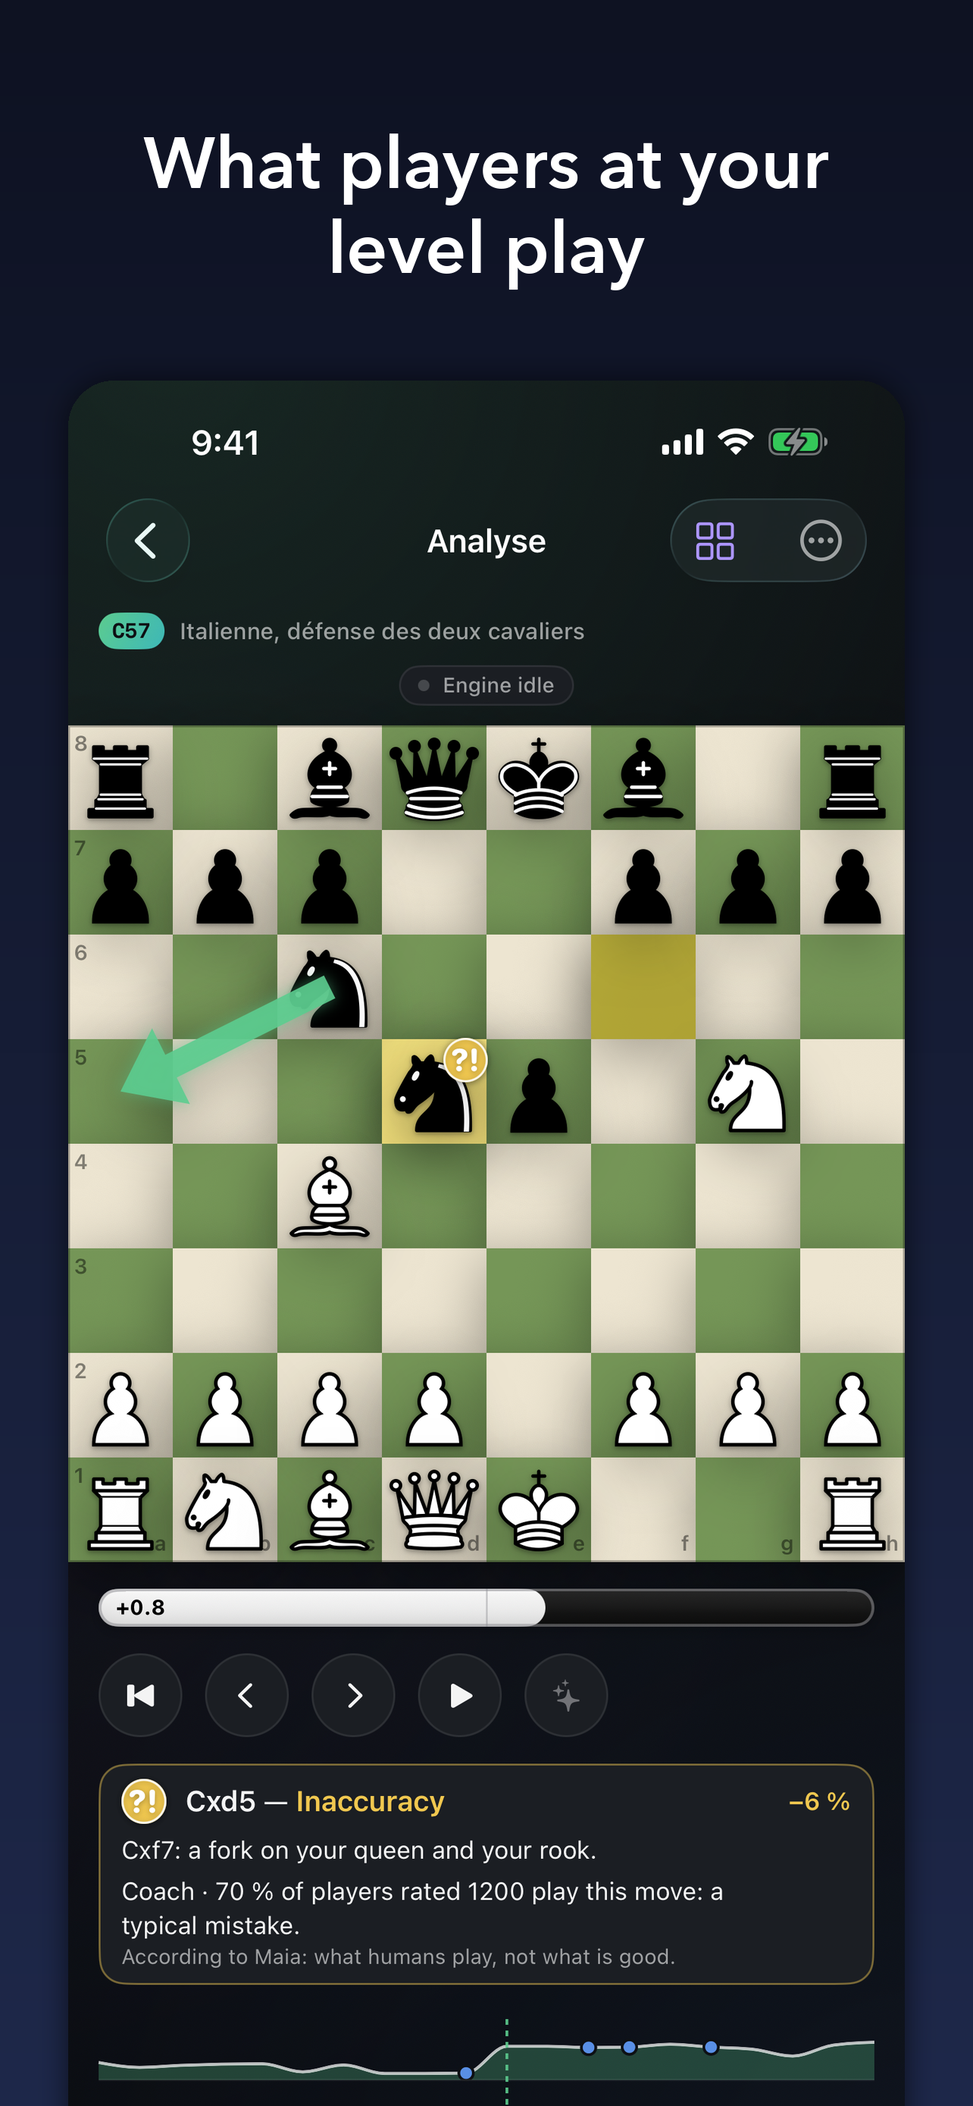
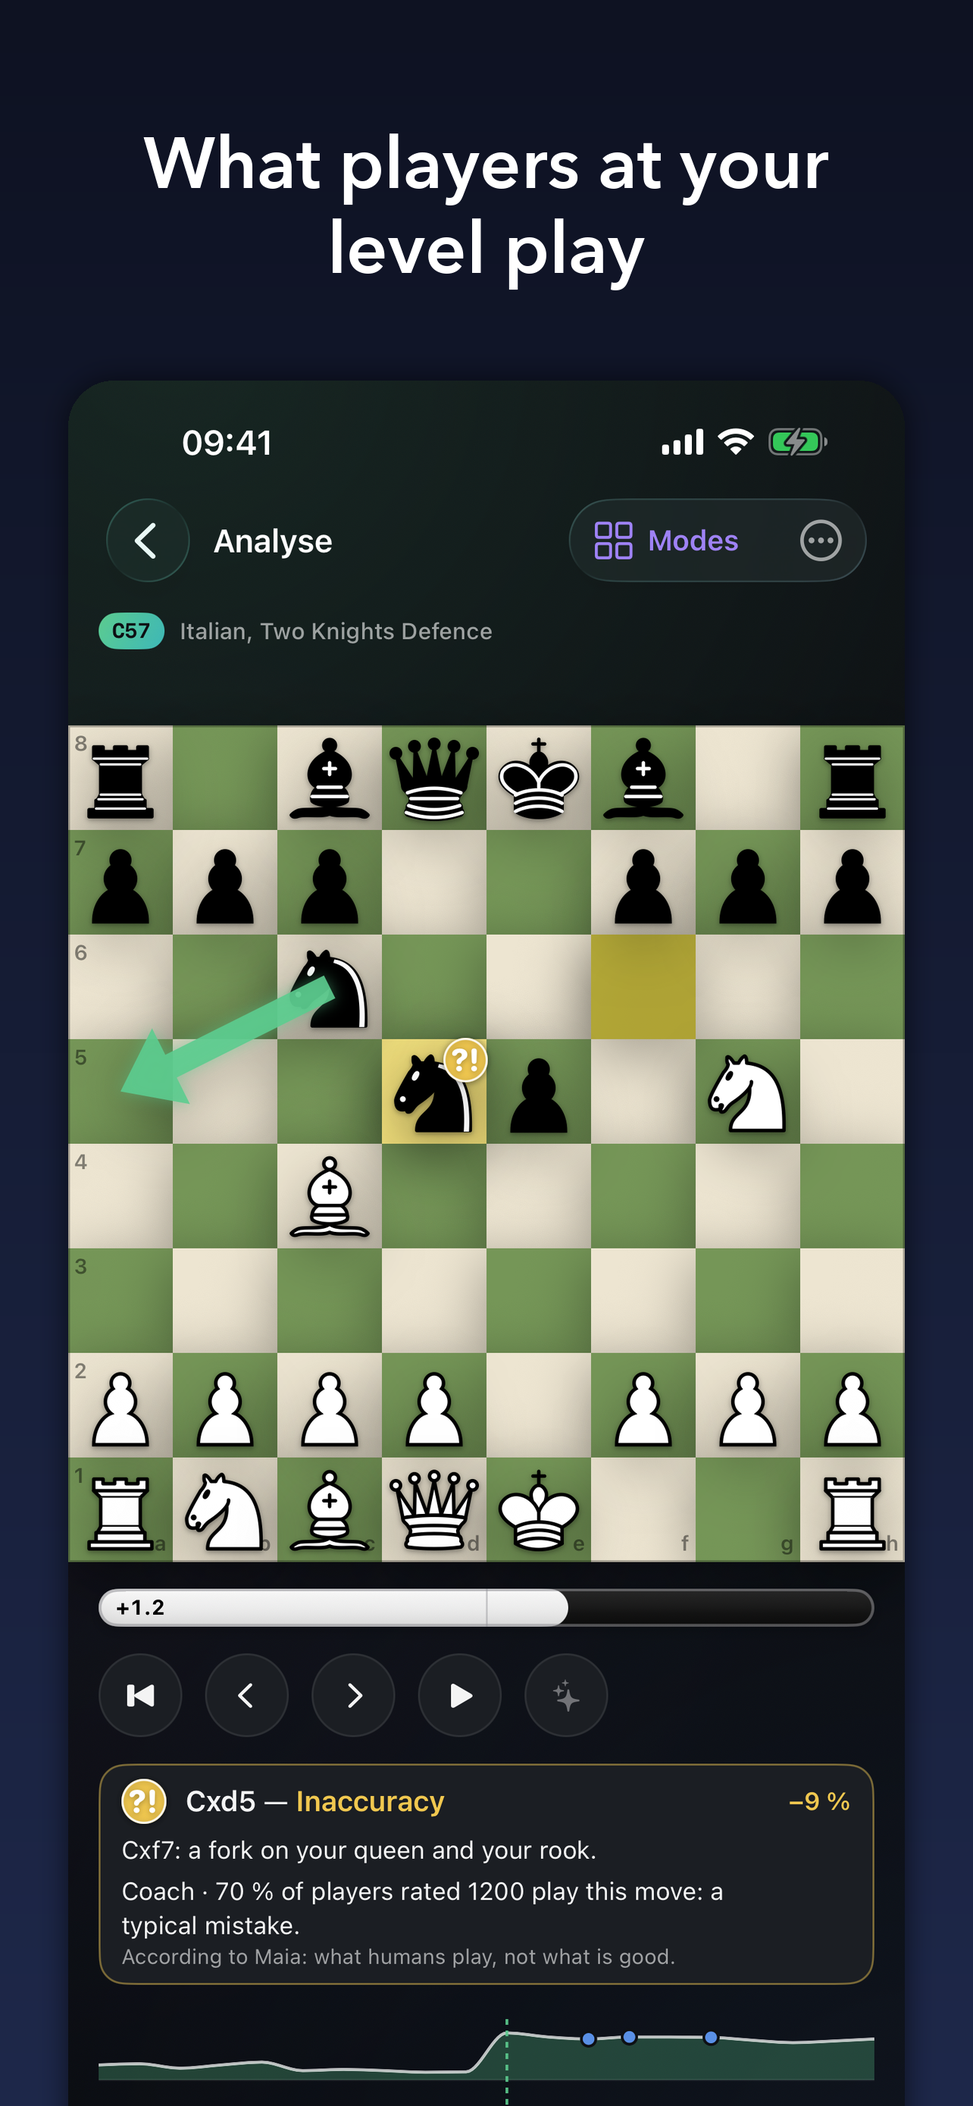
Fiche 2.2 : version 2.2 (build 22), nouveautés FR/EN, notes de révision, captures rafraîchies (iOS ; Android inchangé)
- Version marketing 2.1 -> 2.2, build 22 (jamais téléversé), app et extension de partage.
- METADATA.md : nouveautés 2.2 en français et en anglais, notes pour le réviseur (extension
  de partage, Stockfish 19, export PGN), historique ; RELEASE_NOTES-2.2.md.
- Captures : « coach » (la capsule « Moteur en attente » n'existe plus) et les écrans qui
  portent le bouton « Modes » (ouvertures, lecteur, puzzle, finales), iPhone et iPad, FR/EN ;
  Duo : écran extérieur refait (coach, ouvertures, finales) ; l'écran intérieur n'a pas pu être
  rouvert (posture Device Hub), sa capture « coach » périmée sort de la fiche.
- asc.py : une capture refaite sous le même nom est retéléversée (comparaison des sommes MD5).

Le côté Android n'est pas concerné : rien n'est publié sur Play, versionName reste à trancher.

diff --git a/tools/asc/asc.py b/tools/asc/asc.py
@@ -380,8 +380,12 @@ def cmd_screenshots(c, args):
             if display_type in sets:
                 set_id = sets[display_type]["id"]
                 current = c.get_all(f"/appScreenshotSets/{set_id}/appScreenshots")
-                # Déjà là, dans le même ordre et traité (ou en cours de traitement) : on n'y touche pas.
-                if [x["attributes"]["fileName"] for x in current] == [f.name for f in files] and all(
+                # Déjà là, dans le même ordre, avec le MÊME contenu (somme MD5) et traité (ou en cours de
+                # traitement) : on n'y touche pas. Le nom seul ne suffit pas : une capture refaite garde le sien,
+                # et la version suivante hérite des anciennes images de la précédente.
+                if [x["attributes"]["fileName"] for x in current] == [f.name for f in files] and [
+                        x["attributes"].get("sourceFileChecksum") for x in current
+                ] == [hashlib.md5(f.read_bytes()).hexdigest() for f in files] and all(
                         x["attributes"]["assetDeliveryState"]["state"] in ("COMPLETE", "UPLOAD_COMPLETE") for x in current):
                     print(f"  {locale} {display_type}: {len(files)} captures déjà en place")
                     continue

diff --git a/AppStoreSubmission/METADATA.md b/AppStoreSubmission/METADATA.md
@@ -1,6 +1,6 @@
 # Métadonnées App Store Connect — ChessLab
 
-**Version courante : 2.1, build 21** (fixés dans `project.pbxproj`). La 2.0 (build 19) est EN VENTE. Voir `RELEASE_NOTES-2.1.md` pour le détail des changements depuis la 2.0. **Préparée le 03/11/2026 : fiche, nouveautés et notes de révision posées dans App Store Connect (version 2.1, PREPARE_FOR_SUBMISSION) ; le build n'est PAS archivé ni téléversé, la version n'est PAS soumise (attendre l'accord de Thierry).**
+**Version courante : 2.2, build 22** (fixés dans `project.pbxproj`). La 2.1 (build 21) est EN VENTE depuis le 05/11/2026 ; le build 22 n'a jamais été téléversé (App Store Connect ne l'a pas reçu : vérifié par `asc.py build`). Voir `RELEASE_NOTES-2.2.md` pour le détail des changements depuis la 2.1. **Préparée le 09/11/2026 : fiche, nouveautés et notes de révision à poser dans App Store Connect (version 2.2) ; le build n'est PAS archivé ni téléversé, la version n'est PAS soumise (attendre l'accord de Thierry).**
 
 Tout ce qui suit est à copier-coller directement dans les champs correspondants d'App Store Connect. Les limites de caractères d'Apple sont respectées (vérifiées).
 
@@ -10,64 +10,58 @@ Tout ce qui suit est à copier-coller directement dans les champs correspondants
 
 ---
 
-## Nouveautés de cette version — 2.1 (4000 car. max)
+## Nouveautés de cette version — 2.2 (4000 car. max)
 
 C'est le champ « What's New in This Version ». Rédigé pour l'utilisateur final : ce qu'il va sentir, pas ce qui a été refactorisé.
 
-> Version 2.1, build 20. Contenu : collections de puzzles importées d'un fichier PGN (demande d'un utilisateur, format validé sur son fichier réel), écran Puzzles repensé, réussite partielle, 130 935 puzzles, « S'entraîner » sur la variante affichée, découvrabilité. Détail dans `RELEASE_NOTES-2.1.md`.
+> Version 2.2, build 22. Contenu : scanner fiabilisé (photos d'écran, revue des cases douteuses, partage depuis Photos), export PGN et copie iCloud des collections de puzzles, réglage du thème du puzzle, Laboratoire Chess960, Stockfish 19, jauge d'avancement de l'analyse. Détail dans `RELEASE_NOTES-2.2.md`.
 
 ### Français
 
 ```
-CHESSLAB 2.1
+CHESSLAB 2.2
 
-VOS PROPRES PUZZLES
-Importez vos fichiers PGN : chaque fichier devient une collection, rangée à part de la bibliothèque, et chaque partie du fichier un puzzle. Le premier coup est joué d'avance et surligné — à vous de voir ce qui a changé —, puis de trouver la suite. Travaillez une collection en série, refaites ses ratés, ou lancez un programme Woodpecker sur toute la collection.
+UN SCANNER PLUS FIABLE
+Les photos d'écran (flou, moiré, reflets) sont bien mieux lues, et les points de coups légaux ou les pointes de flèches ne sont plus pris pour des pions. Les cases douteuses se vérifient une à une, avec la vignette de l'image à côté, et une deuxième lecture possible se choisit d'un toucher. Le camp qui a le trait est deviné quand un roi est en échec.
 
-UN ÉCRAN PUZZLES PLUS CLAIR
-Quatre séries démarrent au toucher : À mon niveau, Ratés, À revoir, Mes parties. « Série sur mesure » règle le niveau, la phase, le type et la provenance, et le thème à travailler vous est proposé en tête d'écran.
+PARTAGER VERS CHESSLAB
+Depuis Photos ou n'importe quelle app : Partager, puis ChessLab. L'image arrive directement dans le scanner.
 
-RÉUSSITE PARTIELLE
-Un puzzle dont vous trouvez le début sans la fin n'est plus compté comme raté : il rejoint « À revoir » et revient bientôt.
+VOS COLLECTIONS DE PUZZLES
+Une collection s'exporte en fichier PGN depuis son menu, et se réimporte à l'identique. Avec la synchronisation iCloud activée, vos collections importées passent d'un appareil à l'autre. Un nouveau réglage, « Afficher le thème du puzzle », permet de chercher sans indice. Les fourchettes annoncées sont plus justes, et les fichiers où une prise est précisée (Tfxd7+) sont lus sur la bonne pièce.
 
-SÉANCE DU JOUR
-Un cycle Woodpecker en cours s'affiche désormais parmi les tâches du jour, avec le nombre de puzzles qu'il reste à faire : un toucher et vous reprenez là où vous en étiez.
+LABORATOIRE CHESS960
+Faites jouer des séries de parties de Chess960 : un numéro de position de 0 à 959, ou une position tirée pour chaque paire de parties. Les parties s'exportent et s'analysent.
 
-PLUS DE 24 000 PUZZLES
-La bibliothèque passe à 130 935 problèmes, surtout aux niveaux extrêmes et pour les solutions de quatre coups ou plus. Une barre de progression suit son préchargement au premier lancement.
+STOCKFISH 19
+Le moteur passe à Stockfish 19, plus rapide. Les analyses déjà enregistrées sont refaites à leur prochaine ouverture avec le nouveau moteur.
 
-OUVERTURES ET FINALES
-« S'entraîner » travaille la variante que vous êtes en train de lire, et non plus seulement la ligne principale. Les noms d'ouvertures s'affichent dans la langue de l'app.
-
-MIEUX S'Y RETROUVER
-Un bouton « Modes » pour changer de mode, les sources d'Analyse dépliées, des « Questions fréquentes » dans l'Aide, la version en bas des Réglages. Et dans une partie chronométrée relue après coup, « Analyser ici » ouvre l'analyse sur la position affichée.
+ANALYSE
+Une jauge d'avancement, bien visible au-dessus du plateau, montre où en est le calcul. Une partie rechargée garde ses promotions.
 ```
 
 ### English
 
 ```
-CHESSLAB 2.1
+CHESSLAB 2.2
 
-YOUR OWN PUZZLES
-Import your PGN files: each file becomes a collection, kept apart from the library, and each game in it a puzzle. The first move is played for you and highlighted — spot what changed — and then you find the rest. Work through a collection as a series, redo its misses, or start a Woodpecker programme on the whole collection.
+A MORE RELIABLE SCANNER
+Screen photos (blur, moiré, glare) are read far better, and the dots showing legal moves or arrow heads are no longer mistaken for pawns. Doubtful squares are checked one at a time, with a thumbnail of the picture beside them, and a second possible reading can be chosen with a tap. The side to move is guessed when a king is in check.
 
-A CLEARER PUZZLES SCREEN
-Four series start with a tap: At my level, Missed, Review, My games. “Custom series” sets the level, phase, type and source, and the theme to work on is suggested at the top of the screen.
+SHARE TO CHESSLAB
+From Photos or any app: Share, then ChessLab. The picture goes straight into the scanner.
 
-PARTIAL SUCCESS
-A puzzle where you find the start but not the end no longer counts as missed: it joins “Review” and comes back soon.
+YOUR PUZZLE COLLECTIONS
+A collection can be exported as a PGN file from its menu, and imported back as it was. With iCloud sync turned on, your imported collections travel between your devices. A new setting, “Show the puzzle theme”, lets you search without a hint. The forks it reports are more accurate, and files where a capture is specified (Rfxd7+) are read on the right piece.
 
-DAILY SESSION
-A Woodpecker cycle under way now appears among the day's tasks, with the number of puzzles still to do: one tap and you pick up where you left off.
+CHESS960 LABORATORY
+Run series of Chess960 games: a position number from 0 to 959, or a position drawn for each pair of games. The games can be exported and analysed.
 
-OVER 24,000 MORE PUZZLES
-The library grows to 130,935 problems, especially at the extreme levels and for solutions of four moves or more. A progress bar follows its loading on first launch.
+STOCKFISH 19
+The engine moves to Stockfish 19, which is faster. Analyses already saved are redone with the new engine the next time you open them.
 
-OPENINGS AND ENDGAMES
-“Practice” works on the variation you are reading, not only the main line. Opening names now appear in the app's language.
-
-EASIER TO FIND YOUR WAY
-A “Modes” button to switch mode, Analyse sources open by default, “Frequently asked questions” in Help, the version at the bottom of Settings. And in a timed game reviewed afterwards, “Analyse here” opens the analysis on the position shown.
+ANALYSIS
+A progress gauge, clearly visible above the board, shows how far the calculation has got. A reloaded game keeps its promotions.
 ```
 
 ---
@@ -229,6 +223,8 @@ Réponses déduites du code (vérifié, pas deviné) :
 
 ### Version et build
 
+**2.2, build 22** — `MARKETING_VERSION = 2.2`, `CURRENT_PROJECT_VERSION = 22` (aux quatre configurations, app et extension de partage ; la 2.1, build 21, est en vente et le 22 n'a jamais quitté le dépôt : à revérifier par `asc.py build` avant l'archive, et à monter si Xcode en a envoyé un à l'insu du dépôt). Nouveautés détaillées dans `RELEASE_NOTES-2.2.md`.
+
 **2.1, build 21** — `MARKETING_VERSION = 2.1`, `CURRENT_PROJECT_VERSION = 21` (la 2.0, build 19, est en vente ; le build 20, téléversé le 04/11 sans la tâche Woodpecker de la séance, est écarté). Nouveautés détaillées dans `RELEASE_NOTES-2.1.md`.
 
 **2.0, build 19** — `MARKETING_VERSION = 2.0`, `CURRENT_PROJECT_VERSION = 19` (la 1.9.2, build 17, est la dernière soumise : le 18 est le premier numéro libre, à revérifier par `asc.py build` avant l'archive). Nouveautés détaillées dans `RELEASE_NOTES-2.0.md`.
@@ -267,6 +263,8 @@ git push origin main
 Au 19/08/2026, `main` est poussé au fil de l'eau (la nuit de travail du 18-19/08 a été poussée commit par commit). Vérifier malgré tout au moment de soumettre (`git log --oneline origin/main..HEAD | wc -l` doit rendre 0) : soumettre sans pousser publierait un binaire dont les sources annoncées ne correspondent pas.
 
 ### Historique des versions
+- **2.2** — build 22, préparée (non soumise) : scanner fiabilisé (photos d'écran, revue des cases douteuses, partage depuis Photos par l'extension ChessLabShare), export PGN et copie iCloud des collections de puzzles, réglage « Afficher le thème du puzzle », Laboratoire Chess960, Stockfish 19, jauge d'avancement de l'analyse (`RELEASE_NOTES-2.2.md`).
+- **2.1** — build 21, en vente depuis le 05/11/2026 : collections de puzzles importées, écran Puzzles repensé, réussite partielle, 130 935 puzzles (`RELEASE_NOTES-2.1.md`).
 - **2.0** — build 18 : séance du jour, analyse → puzzles avec récapitulatif, Coach (Maia-3), cote de puzzle, ouvertures illustrées, reprise de partie, limite de temps en option ; correctifs (reprise après capture d'une tour, coup de mat noté) (`RELEASE_NOTES-2.0.md`).
 - **1.9.2** — build 17, soumise : correctif de la prise au tap-tap sous iOS 18.
 - **1.9.1** — build 16 : la pièce du coin haut gauche de l'échiquier (h1 aux Noirs, a8 aux Blancs) et un coin du recadrage du scanner ne répondaient plus au toucher en iOS 18 (`RELEASE_NOTES-1.9.1.md`).
@@ -288,10 +286,7 @@ Au 19/08/2026, `main` est poussé au fil de l'eau (la nuit de travail du 18-19/0
 English, for the Apple reviewer. Opens with the nature of the update (2.0 : major content update), puis la proposition de valeur (sept modes, entièrement gratuits), la permission caméra, le seul appel réseau, la situation de licence (moteur GPLv3, sources publiques), et qu'aucun compte de test n'est nécessaire.
 
 ```
-WHAT'S IN THIS UPDATE (2.1): a feature update. New: the user can import their own chess puzzles from PGN files (Puzzles → My collections → Import puzzles). The files are chosen with the standard system document picker, or the text can be pasted; they are read on the device and never uploaded. Each file becomes a collection kept apart from the bundled library. To try it without a file: tap "Import puzzles", paste the two lines below in the text area, give any name and tap "Import the text" — each game is one puzzle, the first move being played for you:
-[FEN "6k1/p4ppp/8/8/8/8/5PPP/4R1K1 b - - 0 1"]
-1...a6 2.Re8#
-Also new: a redesigned Puzzles screen (four ready-made series and a custom-series sheet), partial credit for a puzzle solved only in part, 24,841 more bundled puzzles (130,935 in all, from the Lichess database, CC0), "Practice" in the opening and endgame courses now follows the variation being read, a "Modes" button on the mode screens, and a frequently-asked-questions section in Help. A standard system rating request (StoreKit) may appear at most once per version, after the user has played and trained for a few days. No change to permissions, privacy or licensing; still no network call, no account, no data collected.
+WHAT'S IN THIS UPDATE (2.2): a feature update. New: (1) a Share extension — in Photos (or any app), Share → ChessLab sends a picture of a chess diagram to the Scanner; the extension only copies the picture into an App Group container shared with the app (group.com.chesslab.ChessLab) and asks the user to open ChessLab; it has no network access and nothing leaves the device. To try it: in Photos open any screenshot of a chess position, tap Share, choose ChessLab, then open ChessLab — the Scanner opens on that picture. (2) A more reliable Scanner (screen photos, review of doubtful squares one at a time). (3) A puzzle collection can be exported as a PGN file from its menu (standard share sheet) and re-imported as it was; with the user's optional iCloud sync on, imported collections are also kept in their own private iCloud database. (4) A "Show the puzzle theme" setting. (5) Chess960 series in the Laboratory. (6) The engine is updated from Stockfish 17.1 to Stockfish 19 (same licence, GPLv3; sources published, see below). (7) A progress gauge during game analysis. No change to permissions, privacy or licensing: no new permission, still no network call of ours, no account, no data collected.
 
 ChessLab is a free chess app — no paywall, no ads, no in-app purchases, no account, no login, no server. Nothing to set up before reviewing. It bundles seven modes: play against the embedded Stockfish engine (Elo ~900 to ~3190) or against one of nine "characters" played by the Maia-3 neural network (University of Toronto, AGPLv3), which predicts human moves at a given level and runs entirely on-device via Core ML; two players on one device; full game analysis with Stockfish; 58 hand-written opening courses with spaced-repetition training; over 130,000 Lichess puzzles; an engine-vs-engine laboratory; and twelve variants (Chess960, King of the Hill, Three-Check, Horde, Racing Kings, Atomic, Antichess, Crazyhouse, Duck Chess, two Barricades, and a house variant, Stolen Move).
 

diff --git a/AppStoreSubmission/RELEASE_NOTES-2.2.md b/AppStoreSubmission/RELEASE_NOTES-2.2.md
@@ -1,0 +1,33 @@
+# Notes de version — ChessLab 2.2
+
+Notes DÉTAILLÉES pour le dépôt. Le texte à coller dans App Store Connect est la section « Nouveautés de cette version » de `METADATA.md` (limite 4 000 caractères).
+
+> Version `2.2`, build `22` (la 2.1, build 21, est en vente depuis le 05/11/2026 ; le 22 n'a jamais été téléversé). iOS et Android partent ensemble (Play : voir `android/PARITE.md`). Préparée le 09/11/2026 ; le build n'est pas archivé, la version n'est pas soumise.
+
+## Ce qui est nouveau
+
+- **Scanner** : détecteur réentraîné — les points de coups légaux et les pointes de flèches ne sont plus lus comme des pions (fausses pièces 5,25 % → 0,016 % sur jeux de pièces inconnus) ; photos d'écran (flou, moiré, reflets) : sur des dégradations SYNTHÉTIQUES, 28 % → 80,7 % de plateaux lus exactement (aucune vraie photo d'écran mesurée) ; revue des cases douteuses une à une avec la vignette de l'image d'origine ; deuxième hypothèse proposée d'un toucher ; trait deviné d'après un roi en échec ; gabarits préchargés à l'ouverture de l'écran. Trois sorties depuis l'éditeur et la confirmation (Jouer / Analyser / Départ du Laboratoire).
+- **« Partager › ChessLab »** (nouvelle cible `ChessLabShare`, identifiant `com.chesslab.ChessLab.Share`, groupe d'app `group.com.chesslab.ChessLab`) : l'image est déposée dans le conteneur de groupe et le scanner s'ouvre dessus à la réactivation de l'app. Une extension iOS ne peut pas lancer l'app : elle affiche « Ouvrez ChessLab » (écart de plateforme, consigné dans `android/PARITE.md`). Vérifié sur iPhone depuis Photos.
+- **Collections de puzzles** : export PGN depuis le menu de la collection (l'en-tête `[PuzzleSetup]` permet de relire le fichier à l'identique) ; copie iCloud des collections importées (iOS seulement — iCloud est hors périmètre Android) ; programme Woodpecker stocké compressé pour tenir sous la limite d'un enregistrement CloudKit ; réglage « Afficher le thème du puzzle » (demande de Ron, allumé par défaut) ; « fourchette » exige de vraies cibles ; les captures désambiguïsées (`Rfxd7+`) sont lues sur la bonne pièce (contournement d'un défaut de ChessKit 0.17.0).
+- **Laboratoire Chess960** : séries par numéro de position (0-959) ou position tirée par paire de parties, export et analyse des parties.
+- **Stockfish 19** (17.1 avant) : un seul réseau (98,5 Mo), +21 % de nœuds/s mesurés sur Apple Silicon, `UCI_Elo` toujours 1320-3190. Les scores sont ramenés sur l'échelle de la 17.1 (les jauges et les seuils de précision gardent leur sens) ; la force des personnages à bas niveau a été mesurée, la compensation proposée n'est pas appliquée (`tools/stockfish-compare/README.md`). Les analyses enregistrées sont refaites (nouveau profil de cache).
+- **Analyse** : l'avancement du calcul est une jauge orange vive au-dessus du plateau (plus de capsule d'état) ; une partie rechargée garde ses promotions ; une position invalide n'arrête plus l'app.
+- **Coup volé** : la position du second coup d'un tour ne porte plus de case de prise en passant du mauvais côté.
+- **Revue du code depuis la 2.1** : dix constats vérifiés, huit corrigés (voir `PROGRESS.md`).
+
+## Vérifié avant la fiche
+
+- iOS : 1282 tests unitaires verts (simulateur iPhone) ; interface iPhone (simulateur) 132 tests, 0 échec ; iPad en français : 7 tests pensés pour la barre d'outils iPhone échouent (mise en page iPad en barre latérale), sans défaut de l'app.
+- Android : tests JVM verts ; instrumentés 187/187 sur Galaxy A16.
+- Les tests d'interface sur appareils physiques (iPhone XS, iPhone 11, iPhone3) n'ont pas pu tourner : « Timed out while enabling automation mode » (réglage Développeur à réactiver).
+
+## Fiche App Store
+
+- Textes FR et EN-GB : `METADATA.md` (nouveautés, notes pour la révision avec le parcours de l'extension de partage).
+- Captures rafraîchies : voir `screenshots/` (la capture « coach » montrait la capsule « Moteur en attente » supprimée).
+
+---
+
+## English
+
+Version 2.2 (build 22). New: a more reliable Scanner (screen photos, one-by-one review of doubtful squares, second guess, side to move guessed), Share → ChessLab from Photos (new share extension), puzzle collections exported as PGN and copied to iCloud (iOS), a "Show the puzzle theme" setting, a Chess960 Laboratory, Stockfish 19 (scores kept on the 17.1 scale), and a visible progress gauge during analysis. Details above (French).
